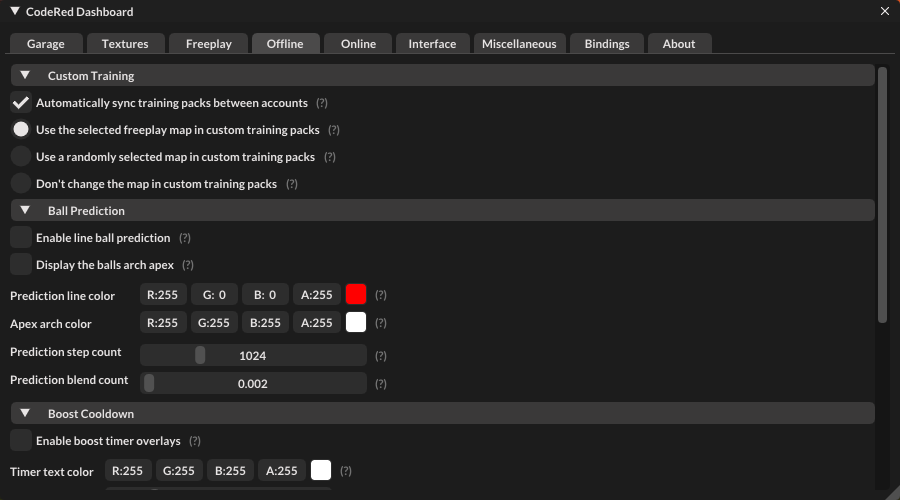
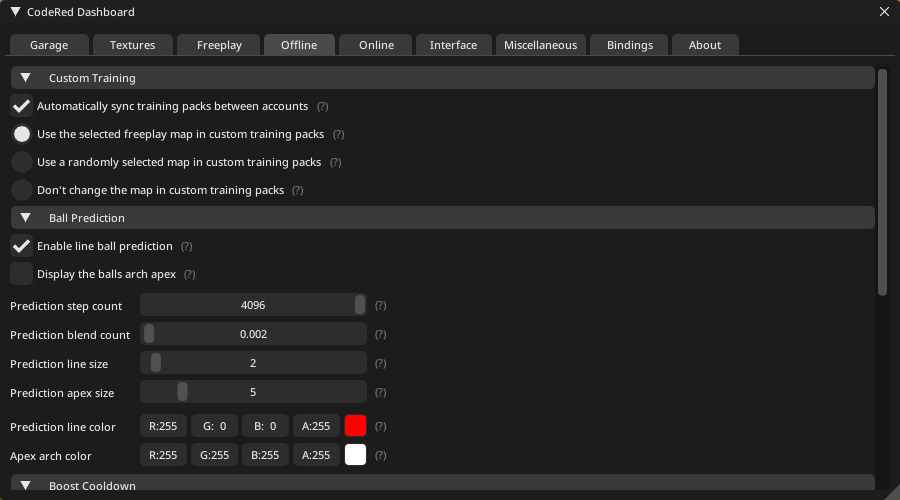
Initial Commit

diff --git a/documentation.html b/documentation.html
@@ -98,7 +98,7 @@
                     <li class="nav-item"><a class="nav-link scrollto" href="#item-6-5">Open Source</a></li>
                     <li class="nav-item"><a class="nav-link scrollto" href="#item-6-6">.NET 7.0</a></li>
 				    <li class="nav-item section-title mt-3"><a class="nav-link scrollto" href="#section-7"><span class="theme-icon-holder me-2"><i class="fas fa-book"></i></span>Changelog</a></li>
-				    <li class="nav-item"><a class="nav-link scrollto" href="#item-7-1">Version 1.6.9</a></li>
+				    <li class="nav-item"><a class="nav-link scrollto" href="#item-7-1">Version 1.7.0</a></li>
 			    </ul>
 		    </nav>
 	    </div>
@@ -982,6 +982,22 @@
                                         <td>Enable april fools vegetable rank icons.</td>
                                     </tr>
                                     <tr>
+                                        <th class="theme-bg-light"><b>interface_april_toppers &lttrue-false&gt</b></th>
+                                        <td>Enable april fools "embiggened mode" toppers.</td>
+                                    </tr>
+                                    <tr>
+                                        <th class="theme-bg-light"><b>interface_april_antennas &lttrue-false&gt</b></th>
+                                        <td>Enable april fools "embiggened mode" antennas.</td>
+                                    </tr>
+                                    <tr>
+                                        <th class="theme-bg-light"><b>interface_topper_scale &lt0.1-25.0&gt</b></th>
+                                        <td>Value to customize the scale of april fools toppers.</td>
+                                    </tr>
+                                    <tr>
+                                        <th class="theme-bg-light"><b>interface_antenna_scale &lt0.1-25.0&gt</b></th>
+                                        <td>Value to customize the scale of april fools antennas.</td>
+                                    </tr>
+                                    <tr>
                                         <th class="theme-bg-light"><b>interface_auto_claim &lttrue-false&gt</b></th>
                                         <td>Automatically claims completed challenges at the end of online matches.</td>
                                     </tr>
@@ -1209,7 +1225,7 @@
                                         <td>Draw the balls alex during prediction.</td>
                                     </tr>
                                     <tr>
-                                        <th class="theme-bg-light"><b>ballprediction_blend_count</b></th>
+                                        <th class="theme-bg-light"><b>ballprediction_blend_count &lt0.001-20.100gt</b></th>
                                         <td>How smooth you want the ball prediction line to be.</td>
                                     </tr>
                                     <tr>
@@ -1225,6 +1241,14 @@
                                         <td>How far you want the ball prediction line to draw.</td>
                                     </tr>
                                     <tr>
+                                        <th class="theme-bg-light"><b>ballprediction_line_size &lt1-25&gt</b></th>
+                                        <td>The size in width of the ball prediction line.</td>
+                                    </tr>
+                                    <tr>
+                                        <th class="theme-bg-light"><b>ballprediction_apex_size &lt1-25&gt</b></th>
+                                        <td>The size in width of the ball prediction apex square.</td>
+                                    </tr>
+                                    <tr>
                                         <th class="theme-bg-light"><b>boostcooldown_enabled &lttrue-false&gt</b></th>
                                         <td>Draw cooldown timers above boost pads.</td>
                                     </tr>
@@ -1233,7 +1257,7 @@
                                         <td>Font color of the boost cooldown timer.</td>
                                     </tr>
                                     <tr>
-                                        <th class="theme-bg-light"><b>boostcooldown_font_size</b></th>
+                                        <th class="theme-bg-light"><b>boostcooldown_font_size &lt0.01-5.0&gt</b></th>
                                         <td>Font size of the boost cooldown timer.</td>
                                     </tr>
                                     <tr>
@@ -1267,6 +1291,10 @@
                                     <tr>
                                         <th class="theme-bg-light"><b>tracers_team_specific &lttrue-false&gt</b></th>
                                         <td>Dynamically change tracer colors based on team color.</td>
+                                    </tr>
+                                    <tr>
+                                        <th class="theme-bg-light"><b>tracers_line_size &lt1-25&gt</b></th>
+                                        <td>The size in width of the lines used by tracers.</td>
                                     </tr>
                                 </tbody>
                             </table>
@@ -2045,6 +2073,23 @@
 					    <h1 class="docs-heading">Changelog</h1>
 				    </header>
 				     <section class="docs-section" id="item-7-1">
+                        <section class="docs-section">
+                            <h2 class="section-heading">Version 1.7.0 (June 12th 2023)</h2>
+                            <h5>- Added a new "April Fools" header under the "Interface" tab in the dashboard.</h5>
+                            <h5>- Added a new <code>interface_april_toppers</code> setting, which lets you enable the "embiggened mode" toppers april fools prank.</h5>
+                            <h5>- Added a new <code>interface_april_antennas</code> setting, which lets you enable the "embiggened mode" antennas april fools prank.</h5>
+                            <h5>- Added a new <code>interface_topper_scale</code> setting, which lets you customize the size of april fools toppers.</h5>
+                            <h5>- Added a new <code>interface_antenna_scale</code> setting, which lets you customize the size of april fools antennas.</h5>
+                            <h5>- Added a new <code>ballprediction_line_size</code> setting, which lets you change the size of the ball prediction line.</h5>
+                            <h5>- Added a new <code>ballprediction_apex_size</code> setting, which lets you change the size of the ball prediction apex square.</h5>
+                            <h5>- Added a new <code>tracers_line_size</code> setting, which lets you change the size of the tracers line.</h5>
+                            <h5>- Fixed the function scanner sometimes not applying a whitelist/blacklist if you put a word that wasn't separated by commas.</h5>
+                            <h5>- Fixed a crash related to the <code>freeplay_disable_hotkeys</code> command in freeplay.</h5>
+                            <h5>- Fixed a crash related to custom textures and leaving in the middle of a game to the main menu.</h5>
+                            <h5>- Fixed a rare crash related to platform avatars when opening the scoreboard.</h5>
+                            <h5>- Improvements to displaying the balls apex in ball prediction.</h5>
+                        </section>
+
                         <section class="docs-section">
                             <h2 class="section-heading">Version 1.6.9 (June 10th 2023)</h2>
                             <h5>- Removed avatars from garage presets, now custom avatars can only be changed through the textures tab for consistency reasons.</h5>
